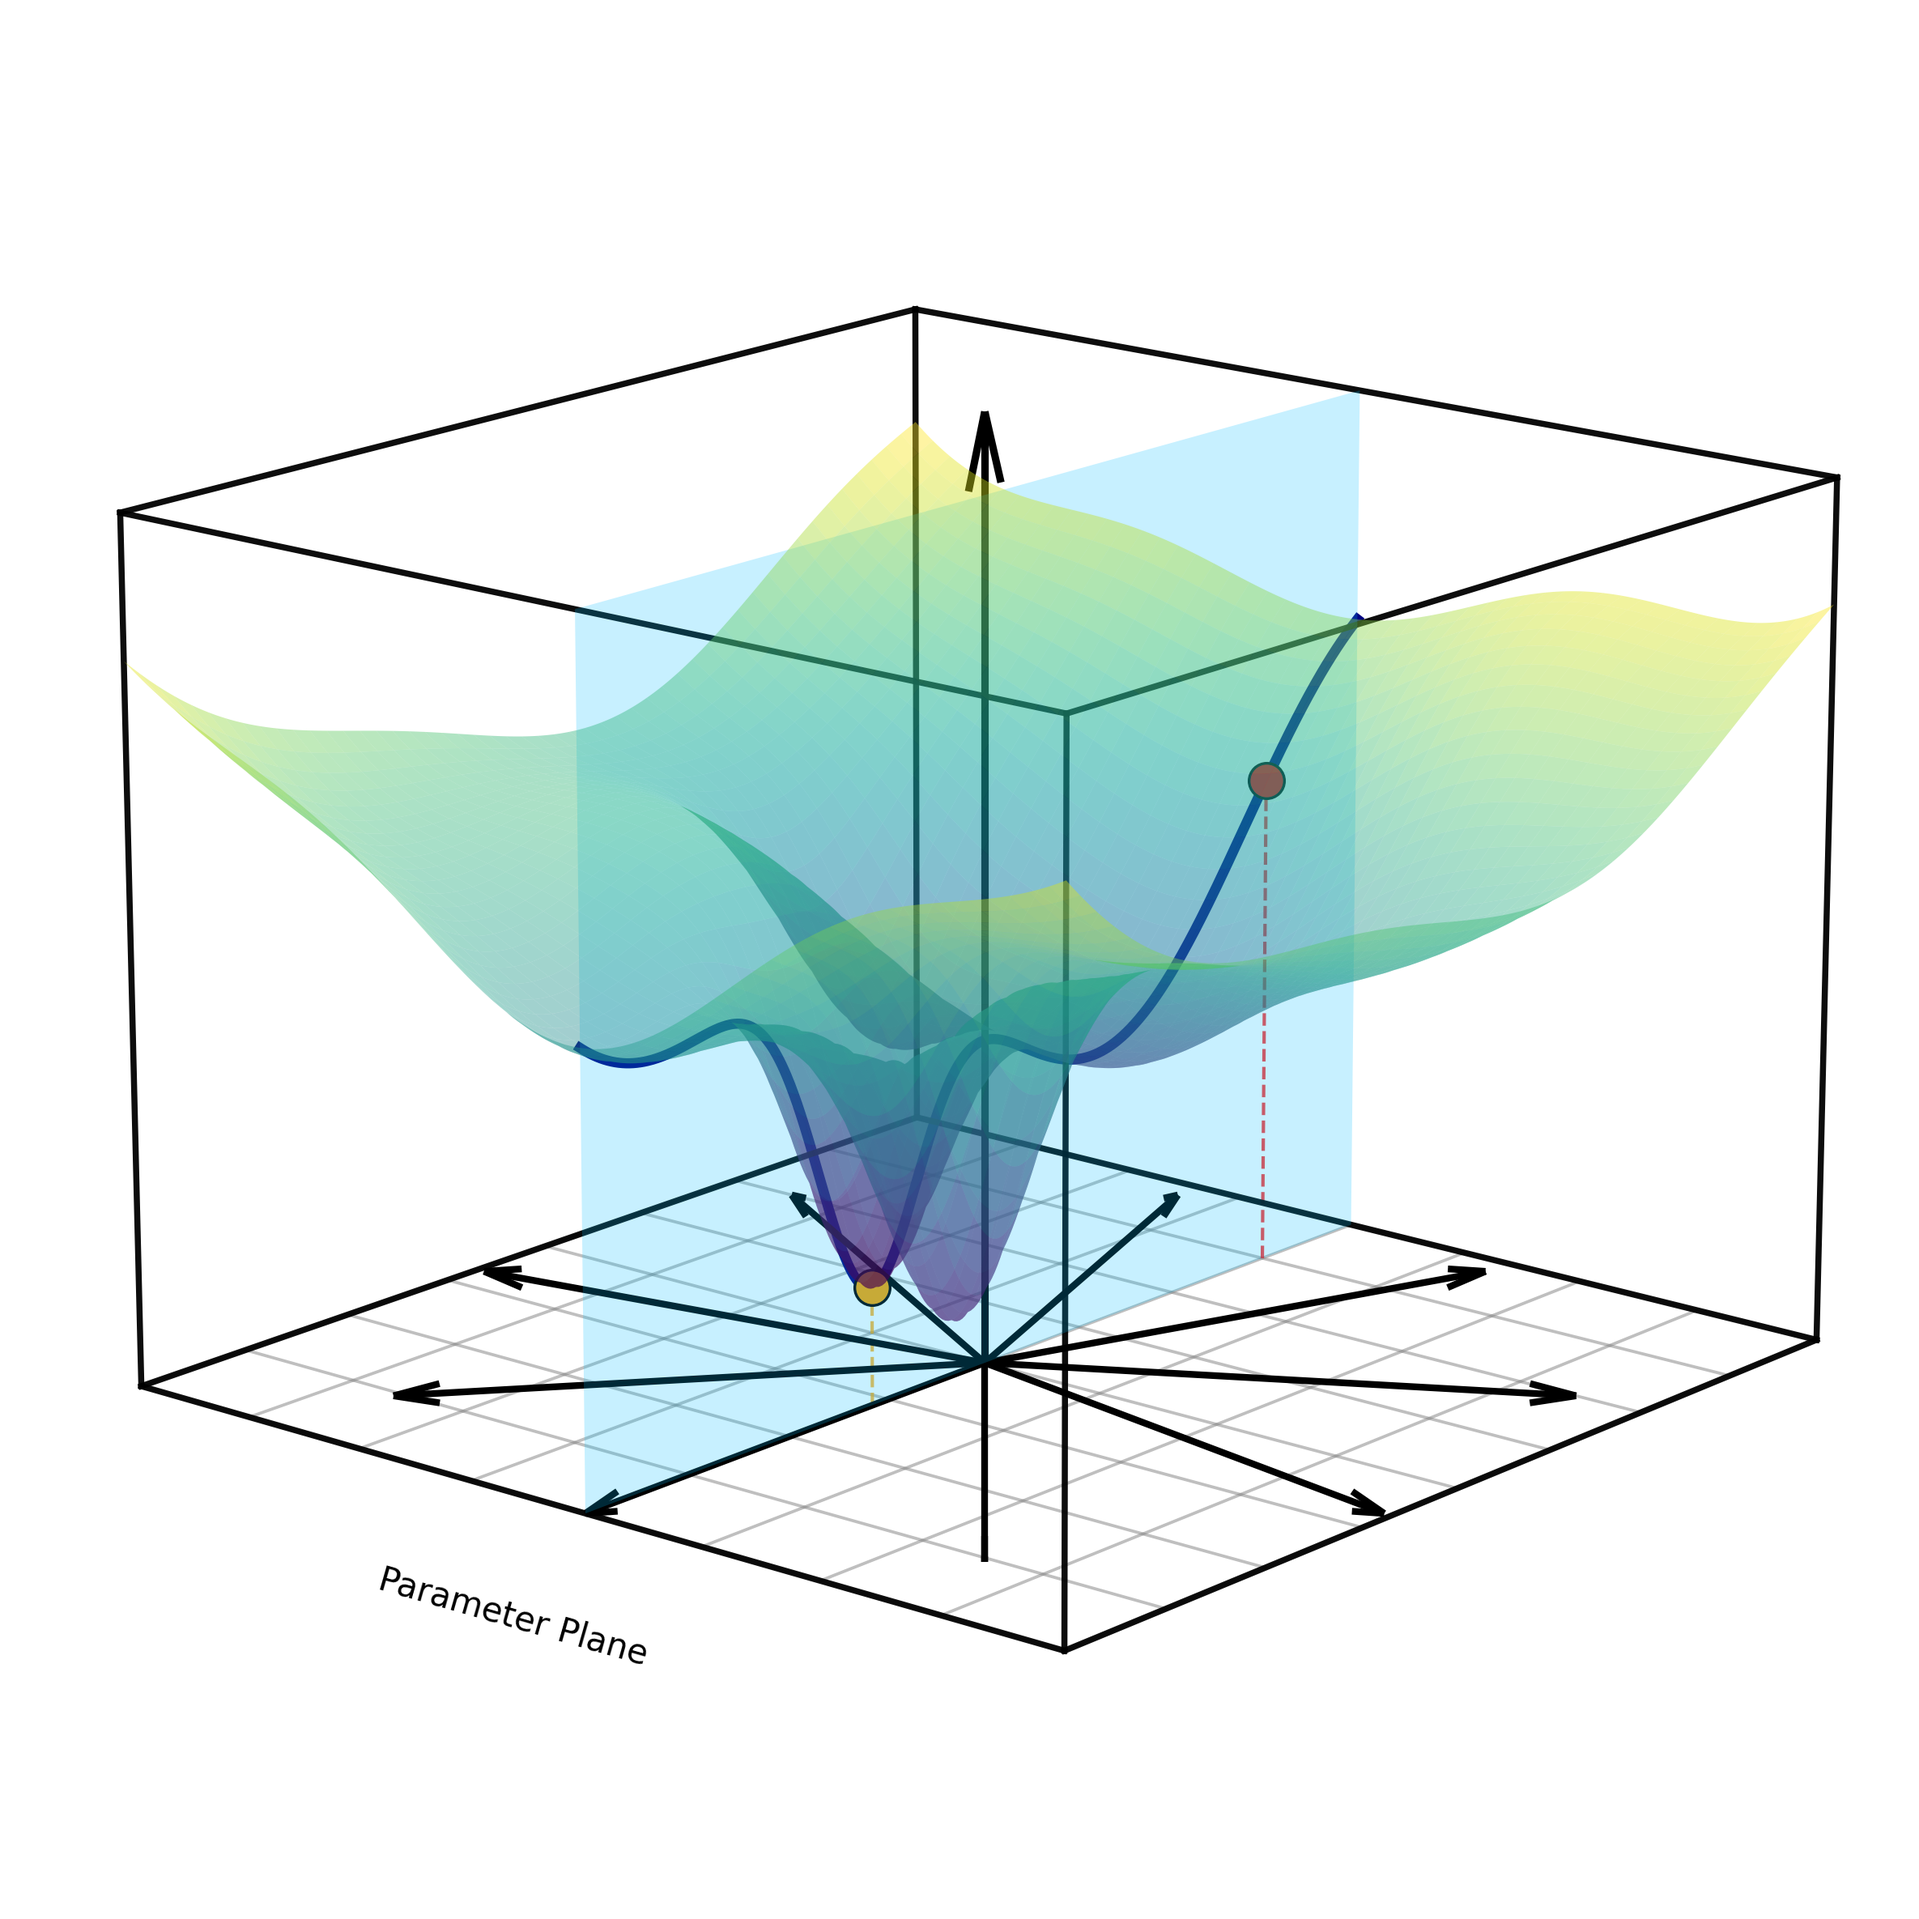
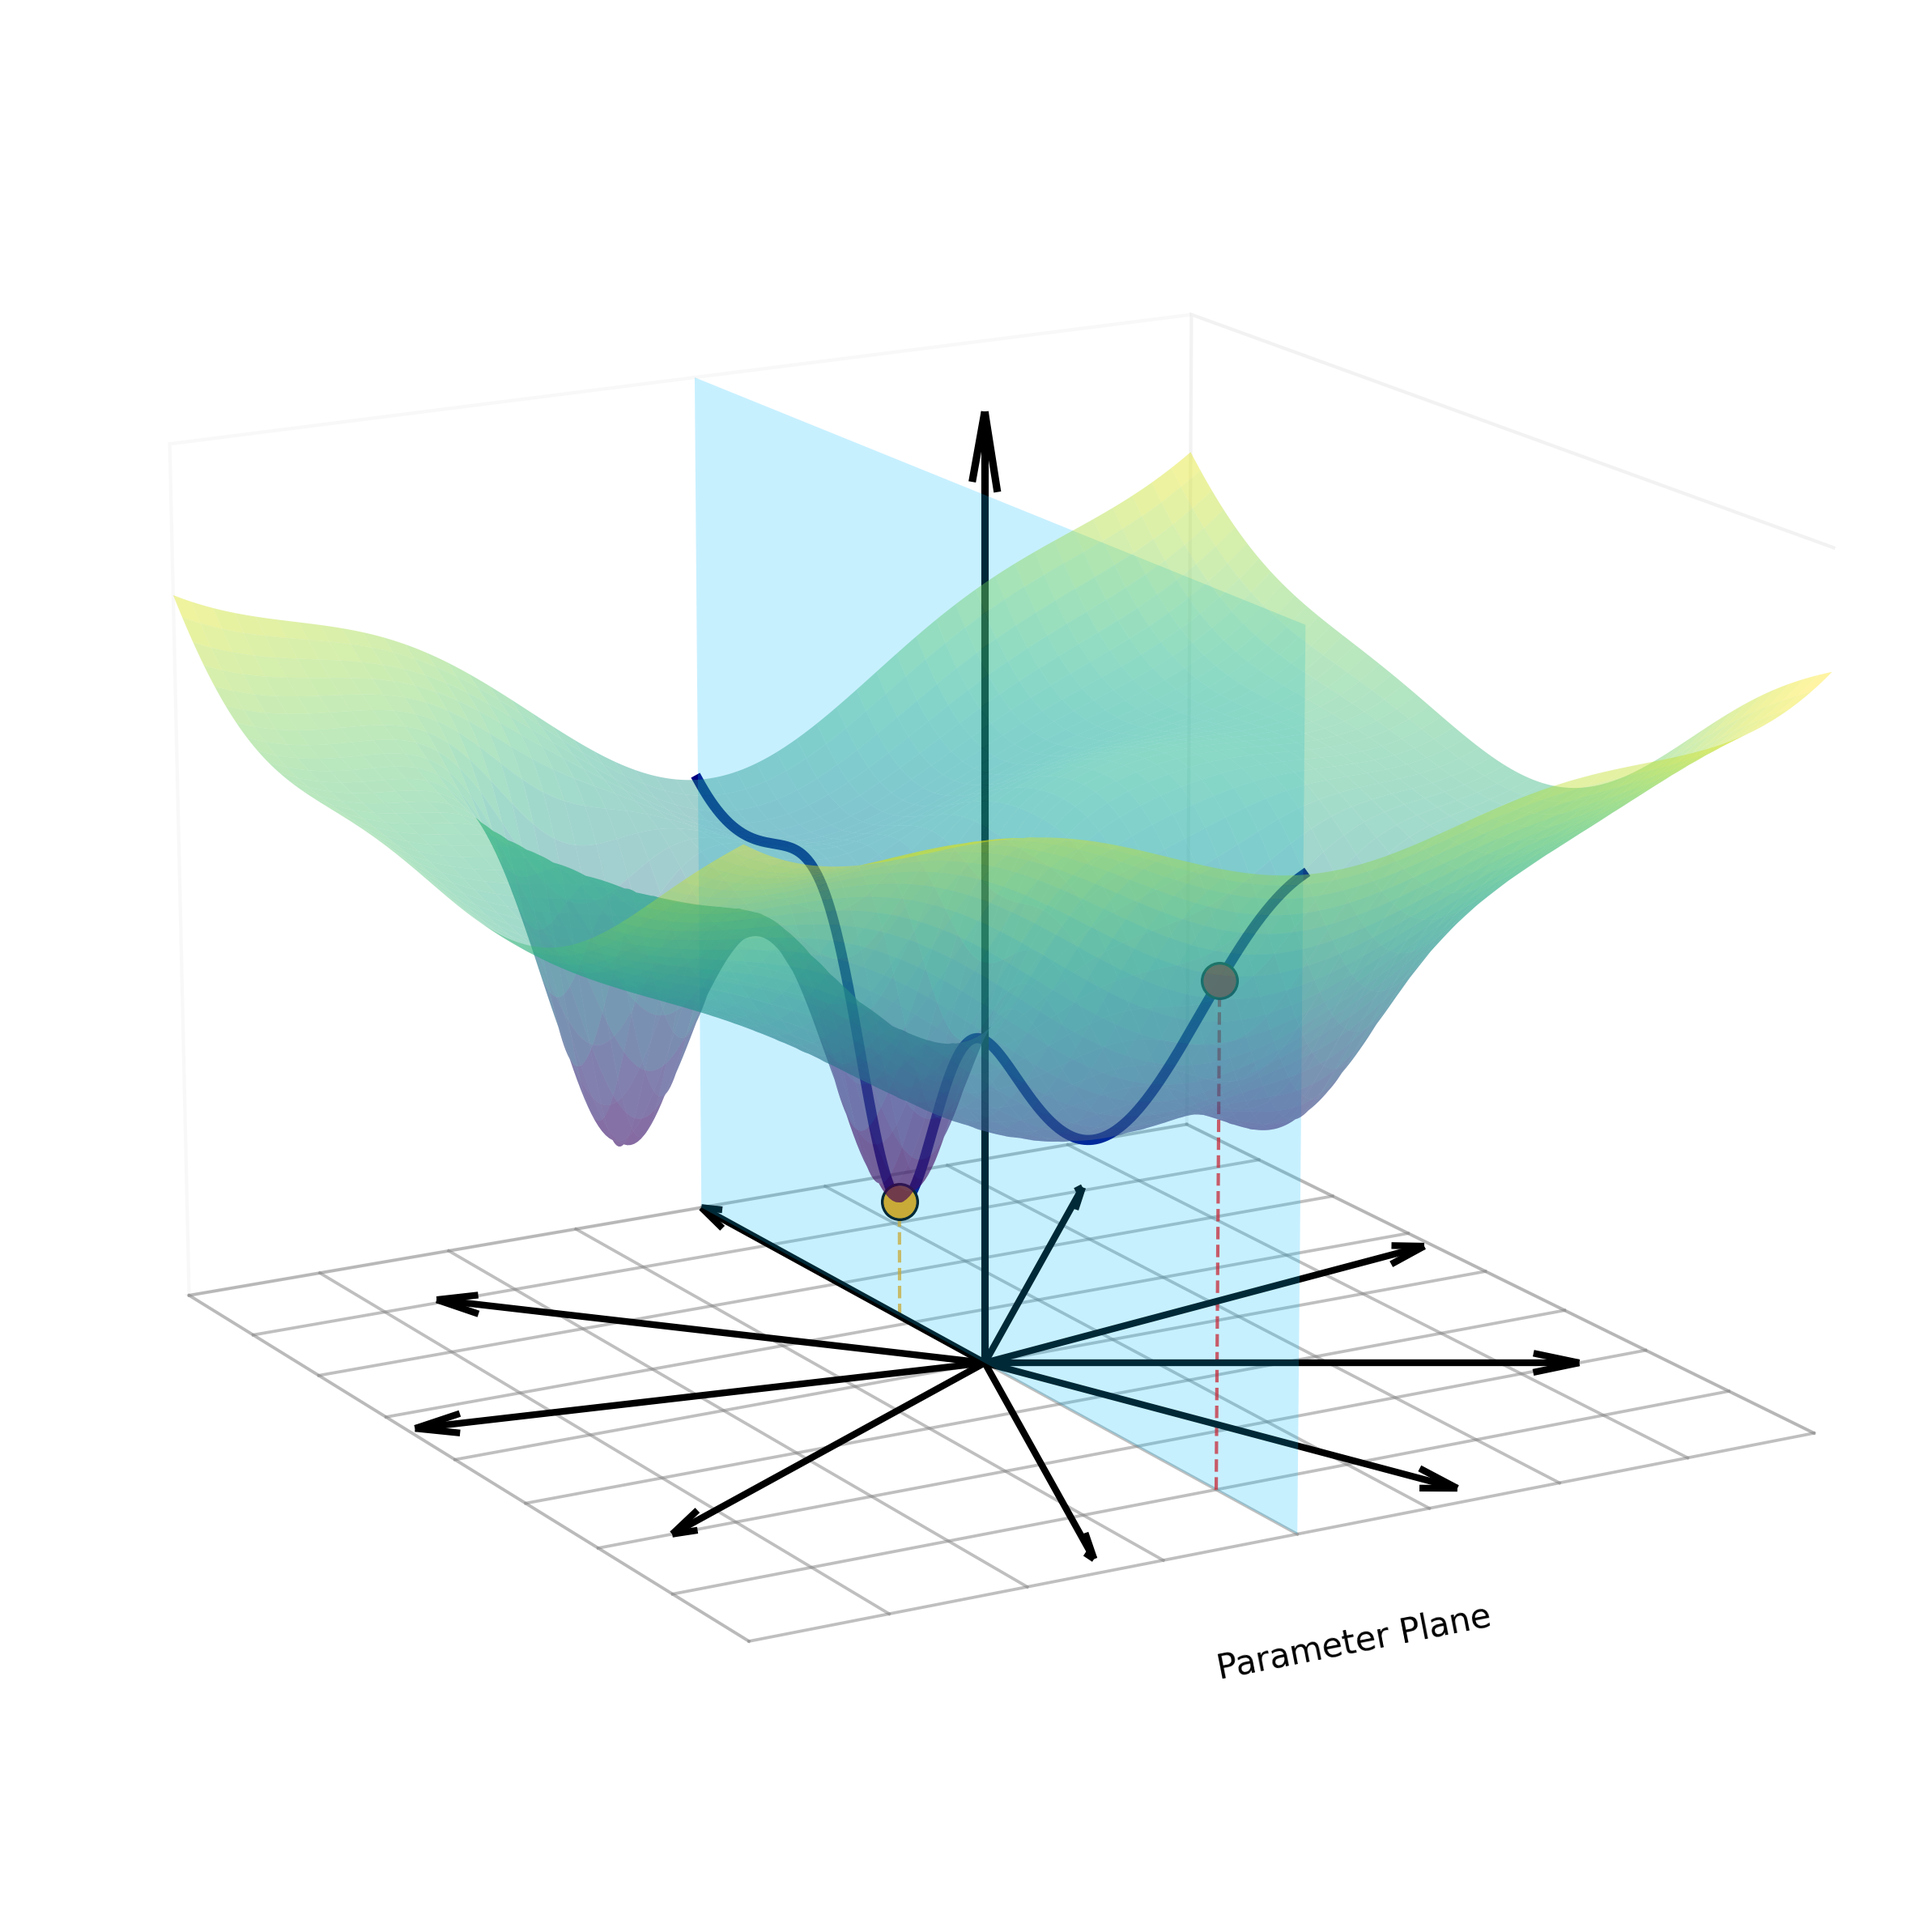
Made optimization space plots

diff --git a/research/custom_plots/opt_space.py b/research/custom_plots/opt_space.py
@@ -40,7 +40,7 @@ n_base_grid = 9
 y_slice = 0.0
 
 view_elev = 16
-view_azim = 40
+view_azim = 150
 
 show_figures = True
 
@@ -314,15 +314,15 @@ def style_axes(
     ax.yaxis.line.set_color((1, 1, 1, 0))
     ax.zaxis.line.set_color((1, 1, 1, 0))
 
-    draw_bounding_box(
-        ax,
-        xlim = xlim,
-        ylim = ylim,
-        zlim = zlim,
-        color = "black",
-        linewidth = 1.8,
-        alpha = 0.95,
-    )
+    # draw_bounding_box(
+    #     ax,
+    #     xlim = xlim,
+    #     ylim = ylim,
+    #     zlim = zlim,
+    #     color = "black",
+    #     linewidth = 1.8,
+    #     alpha = 0.95,
+    # )
 
 
 
